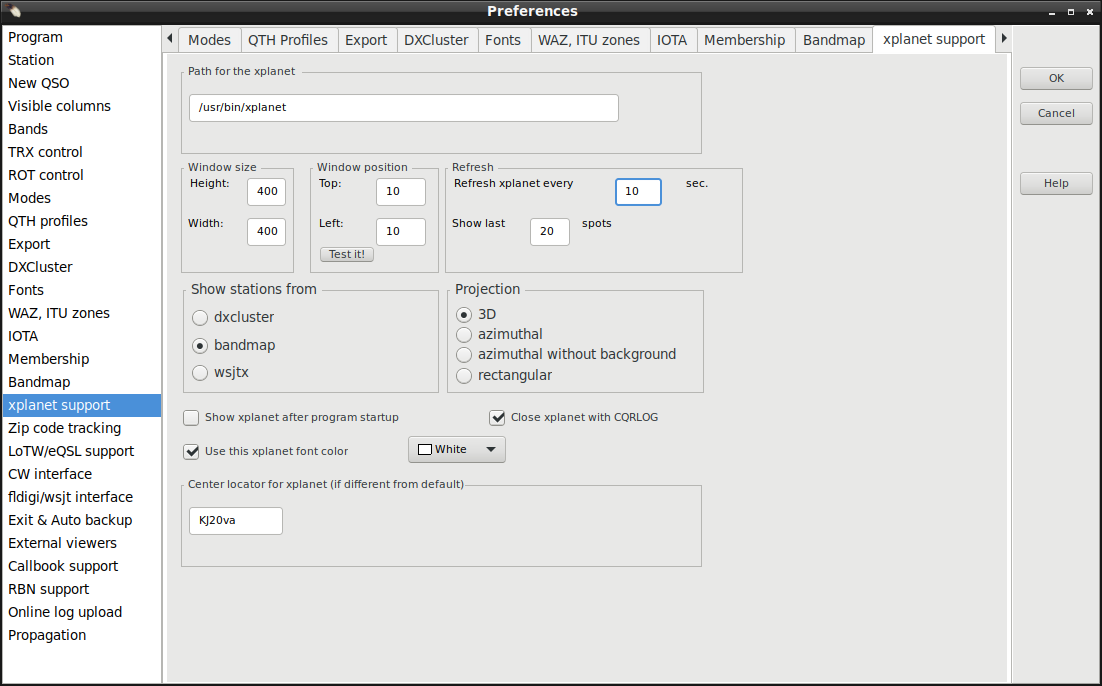
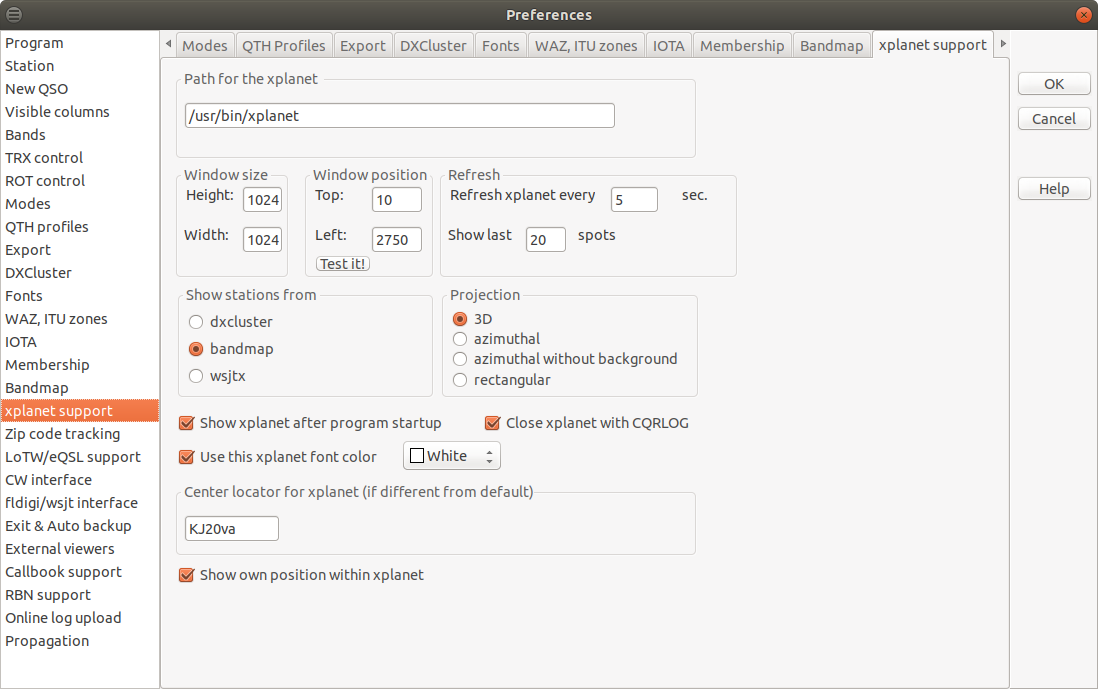
Add and update help documentation

Changed region(s): [[0.0, 0.0, 1.0, 1.0]]

diff --git a/help/h1.html b/help/h1.html
@@ -481,6 +481,9 @@ There are no known dependencies issues.<br><br>
     </ul>
     The center locator for the xplanet window can be customized by configuring in on 
     this page. In case the field is empty the default locator of the station is used.<br><br>
+    If you want to have your own position displayed within xplanet check the <strong>Show own 
+    position within xplanet</strong> checkbox.<br><br>
+    this page. In case the field is empty the default locator of the station is used.<br><br>
     The xplanet window currently has no other function than to display spots or band
     map entries in the azimuthal projection or 3D-like picture.
     <br><br>
